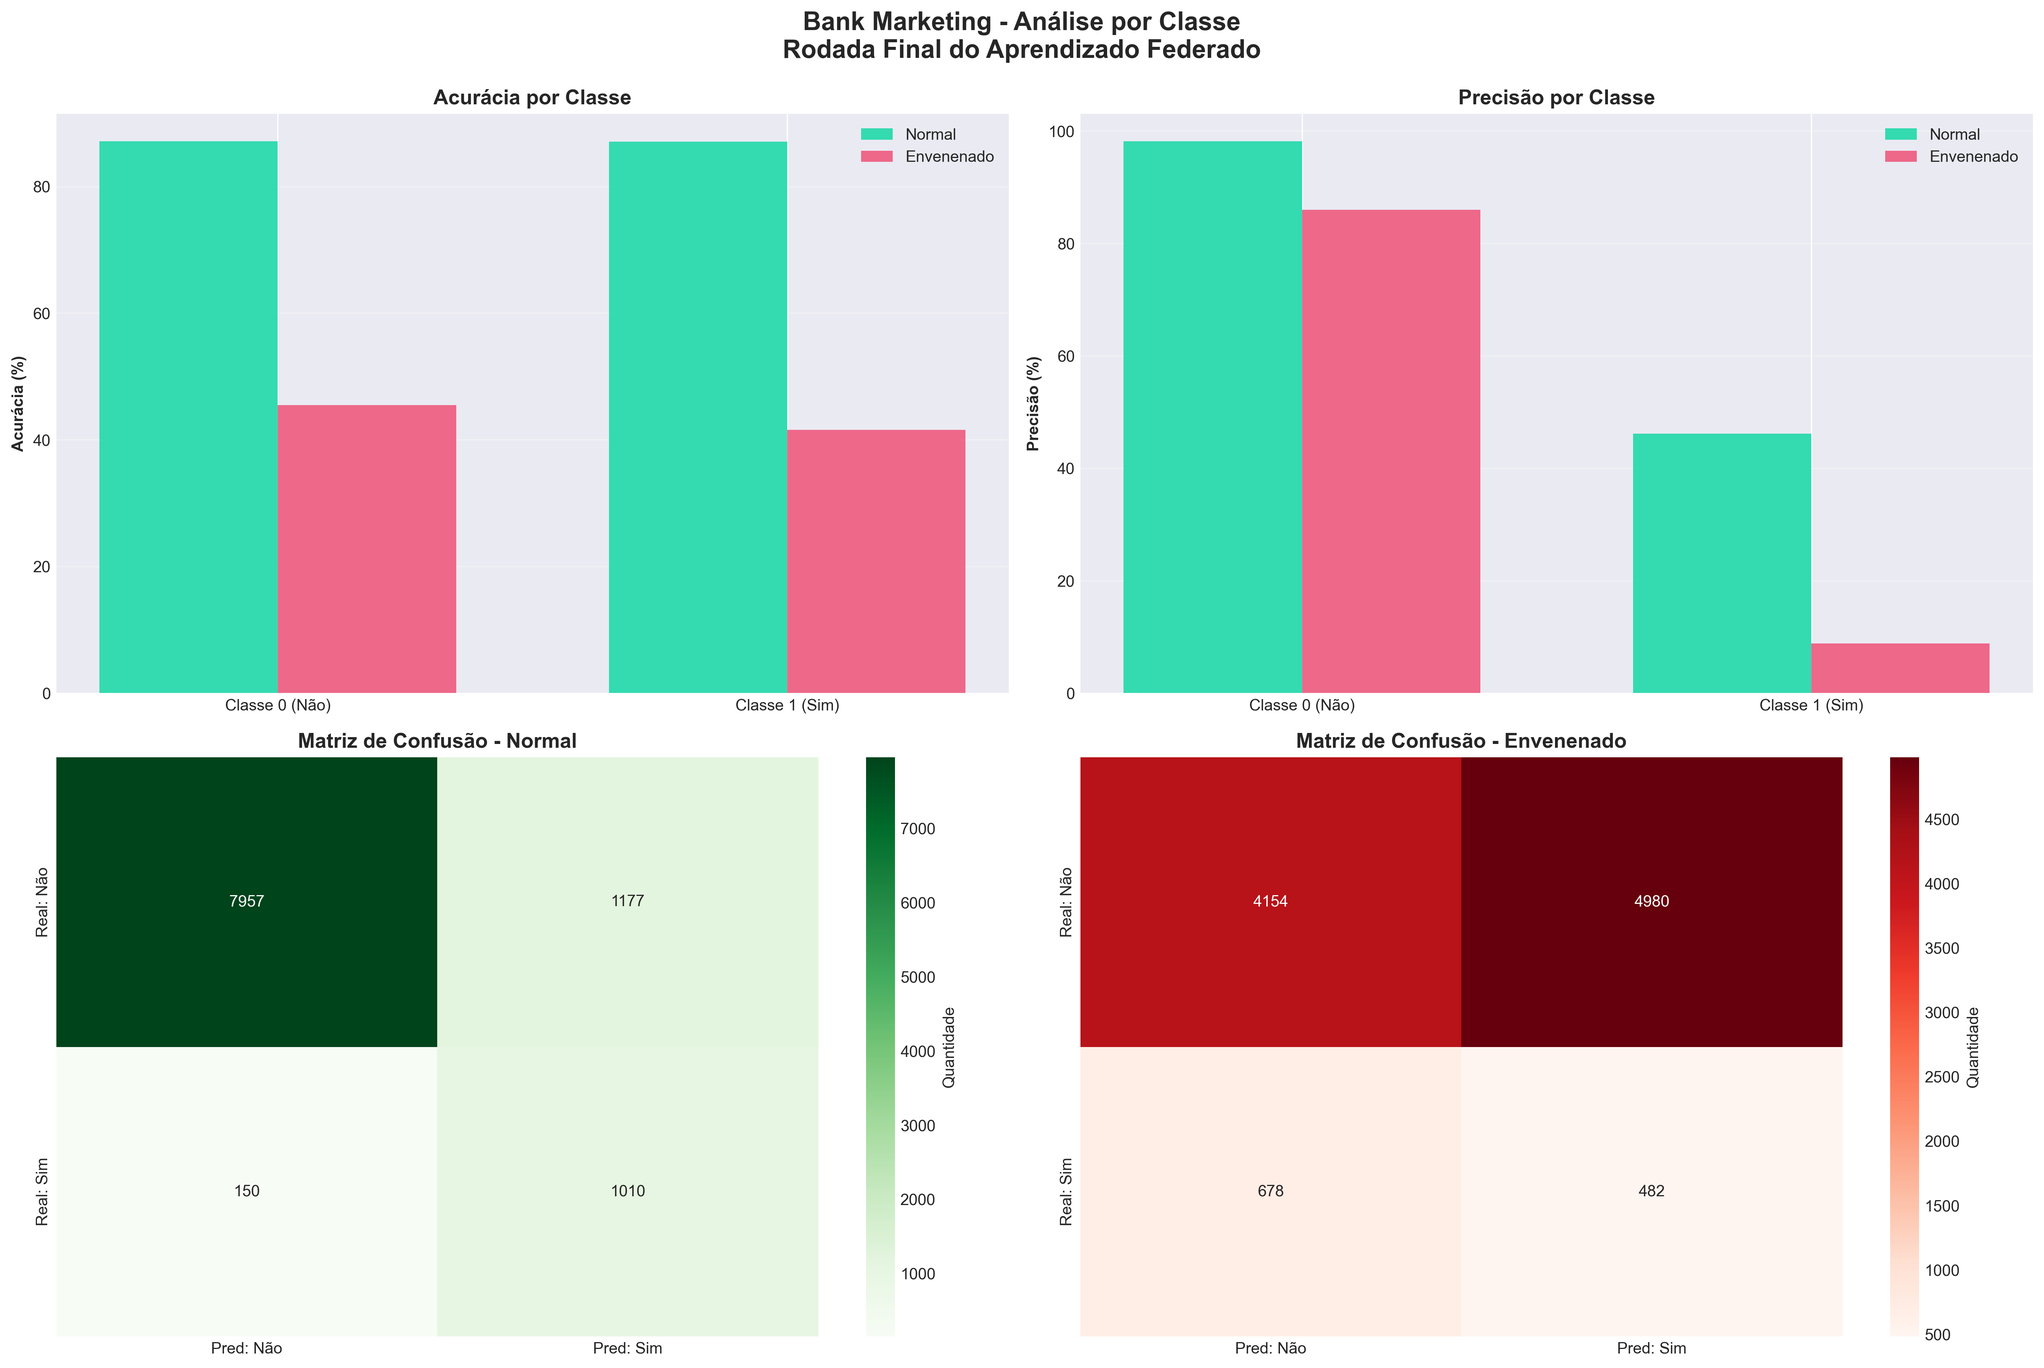
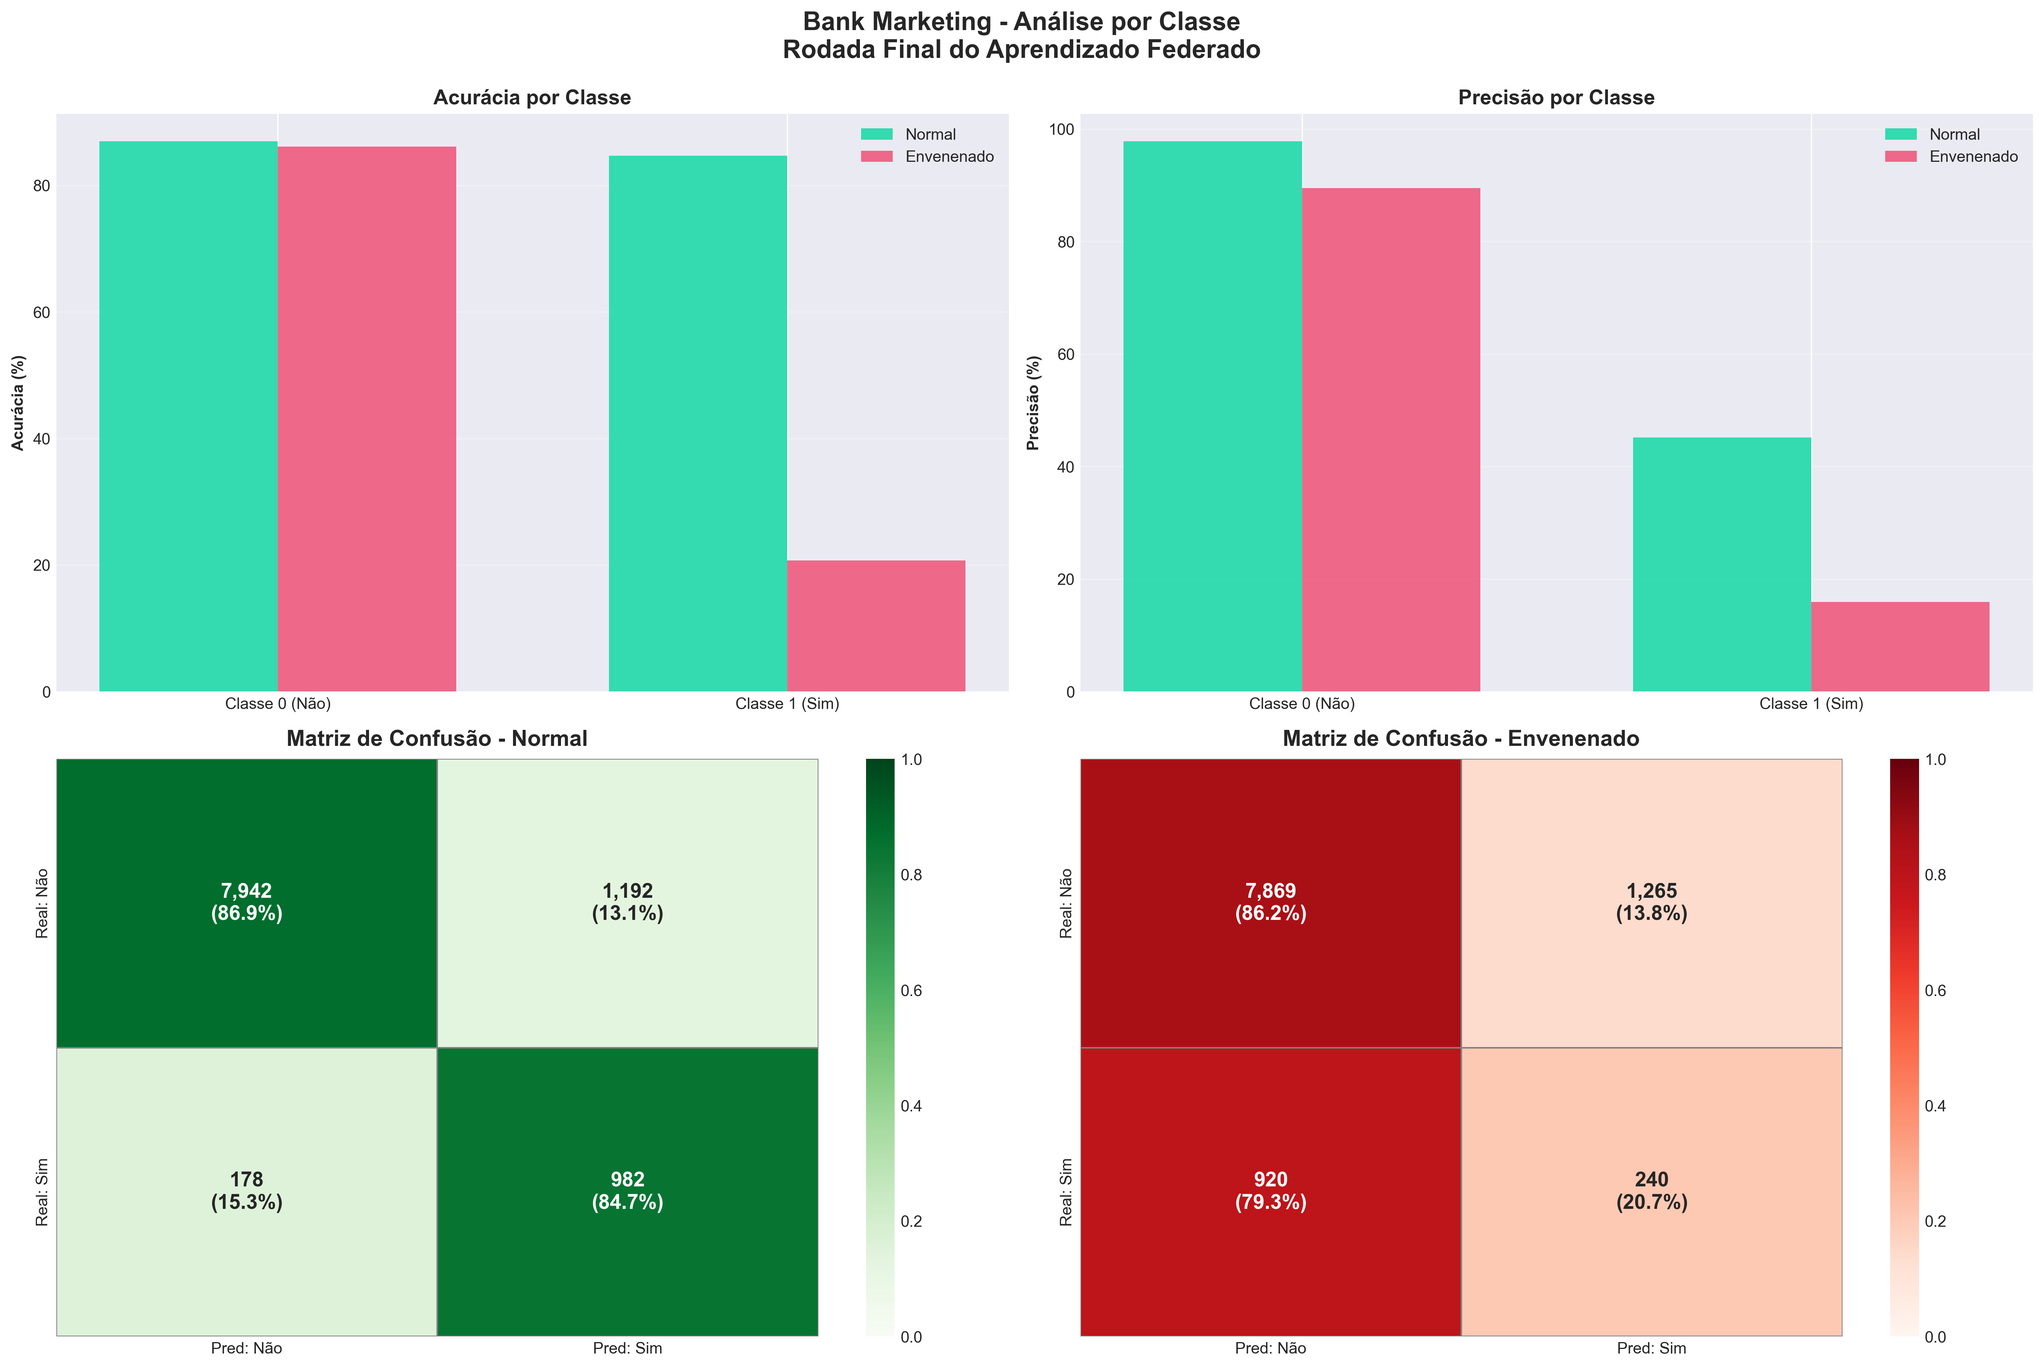
fix: corrigir metricas flat e matrizes de confusao no script principal
Problemas corrigidos:
- Remover ModeloFederado.treinar_incremental() com max_iter=500 que
  convergia na rodada 1 e produzia métricas identicas em todas as rodadas
- Adicionar treinar_cliente_minibatch(): 40% dos dados por rodada,
  seed variavel (42+cliente+rodada*7), iteracoes crescentes (10+rodada*5, max 80)
- Corrigir avaliacao global: scaler separado no conjunto de validacao,
  modelo global recebe pesos do FedAvg diretamente
- Adicionar _plotar_matriz_confusao(): CM normalizada por linha (%) +
  contagem absoluta, anotacoes grandes e legiveis, sem dominancia da celula TN
- Corrigir tamanho real dos clientes no grafico de pizza (41k dataset)

Resultados (variacao real por rodada):
- Normal: R1=85.39% -> R3=87.25% -> R6=86.98% -> R12=86.69% AUC=0.93
- Atacado: R1=36.28% -> R3=26.71% -> R6=44.73% -> R12=78.77% AUC=0.51
- Matriz de confusao: valores diferentes entre rodadas 1/4/8/12 agora

diff --git a/project/code/scripts-notebooks/run_federated_learning_bank_distribuido.py b/project/code/scripts-notebooks/run_federated_learning_bank_distribuido.py
@@ -332,13 +332,56 @@ def distribuir_dados_entre_clientes(X, y, num_clientes=3, validacao_global_size=
     return dados_clientes, (X_val_global, y_val_global)
 
 
-def executar_rodada_federada(dados_clientes, dados_val_global, pesos_globais, 
+def treinar_cliente_minibatch(X, y, pesos_globais, rodada, idx_cliente):
+    """
+    Treina um cliente local usando mini-batch por rodada.
+    40% dos dados, seed variável por rodada e cliente → variação real nas métricas.
+    Iterações crescem gradualmente (10 + rodada*5, máx 80) para simular convergência.
+    """
+    seed = 42 + idx_cliente + rodada * 7
+    rng = np.random.RandomState(seed)
+    n = max(200, int(len(X) * 0.40))
+    idx_batch = rng.choice(len(X), size=n, replace=False)
+    X_batch = X[idx_batch]
+    y_batch = y[idx_batch]
+
+    iters_por_rodada = min(10 + rodada * 5, 80)
+
+    modelo = LogisticRegression(
+        max_iter=iters_por_rodada,
+        random_state=seed,
+        solver='saga',
+        warm_start=True,
+        class_weight='balanced',
+        penalty='l2',
+        C=0.5,
+        tol=1e-3
+    )
+    scaler = MinMaxScaler()
+    X_scaled = scaler.fit_transform(X_batch)
+
+    if pesos_globais is not None:
+        try:
+            modelo.fit(X_scaled, y_batch)   # inicializa classes_
+            modelo.coef_ = deepcopy(pesos_globais['coef'])
+            modelo.intercept_ = deepcopy(pesos_globais['intercept'])
+            modelo.classes_ = deepcopy(pesos_globais['classes'])
+            modelo.fit(X_scaled, y_batch)   # fine-tune
+        except Exception:
+            modelo.fit(X_scaled, y_batch)
+    else:
+        modelo.fit(X_scaled, y_batch)
+
+    return modelo, scaler
+
+
+def executar_rodada_federada(dados_clientes, dados_val_global, pesos_globais,
                              rodada, envenenado=False, cliente_malicioso=3):
     """
     Executa UMA rodada federada completa
-    
+
     Fases:
-    1. Cada cliente treina localmente (partir dos pesos globais)
+    1. Cada cliente treina localmente com mini-batch (40%, seed variável)
     2. Cliente malicioso corrompe seus pesos
     3. Cada cliente avalia seu modelo LOCAL
     4. Servidor agrega pesos (FedAvg)
@@ -346,40 +389,77 @@ def executar_rodada_federada(dados_clientes, dados_val_global, pesos_globais,
     """
     pesos_locais = []
     avaliacoes_locais = []
-    
+
     X_val_global, y_val_global = dados_val_global
-    
-    # FASE 1 e 2: Treinamento Local + Corrupção (se aplicável)
+
+    # FASE 1 e 2: Treinamento Local com mini-batch + Corrupção (se aplicável)
     for idx, (X_cliente, y_cliente) in enumerate(dados_clientes, 1):
-        modelo_local = ModeloFederado()
-        modelo_local.treinar_incremental(X_cliente, y_cliente, pesos_globais)
-        pesos_local = modelo_local.obter_pesos()
-        
+        modelo_local, scaler_local = treinar_cliente_minibatch(
+            X_cliente, y_cliente, pesos_globais, rodada, idx
+        )
+        pesos_local = {
+            'coef': deepcopy(modelo_local.coef_),
+            'intercept': deepcopy(modelo_local.intercept_),
+            'classes': deepcopy(modelo_local.classes_)
+        }
+
         # Corrompe pesos se for cliente malicioso
         if envenenado and idx == cliente_malicioso:
             pesos_local = envenenar_pesos(pesos_local, taxa=0.9)
-        
+
         pesos_locais.append(pesos_local)
-        
-        # FASE 3: Avaliação LOCAL (cada cliente avalia em seus próprios dados)
-        aval_local = modelo_local.avaliar(X_cliente, y_cliente)
-        aval_local['cliente'] = idx
-        aval_local['envenenado'] = (envenenado and idx == cliente_malicioso)
+
+        # FASE 3: Avaliação LOCAL (nos dados completos do cliente)
+        X_full_scaled = scaler_local.transform(X_cliente)
+        y_pred_local = modelo_local.predict(X_full_scaled)
+        y_proba_local = modelo_local.predict_proba(X_full_scaled)
+        aval_local = {
+            'acuracia': accuracy_score(y_cliente, y_pred_local),
+            'f1_score': f1_score(y_cliente, y_pred_local, average='binary'),
+            'precisao': precision_score(y_cliente, y_pred_local, average='binary', zero_division=0),
+            'recall': recall_score(y_cliente, y_pred_local, average='binary', zero_division=0),
+            'loss': log_loss(y_cliente, y_proba_local),
+            'auc': roc_auc_score(y_cliente, y_proba_local[:, 1]),
+            'confusion_matrix': confusion_matrix(y_cliente, y_pred_local),
+            'cliente': idx,
+            'envenenado': (envenenado and idx == cliente_malicioso)
+        }
         avaliacoes_locais.append(aval_local)
-    
+
     # FASE 4: Agregação FedAvg
     pesos_globais_novos = {
         'coef': np.mean([p['coef'] for p in pesos_locais], axis=0),
         'intercept': np.mean([p['intercept'] for p in pesos_locais], axis=0),
         'classes': pesos_locais[0]['classes']
     }
-    
-    # FASE 5: Avaliação GLOBAL (servidor avalia no conjunto global)
-    modelo_global = ModeloFederado()
-    modelo_global._carregar_pesos(pesos_globais_novos)
-    avaliacao_global = modelo_global.avaliar(X_val_global, y_val_global)
-    avaliacao_global['rodada'] = rodada
-    
+
+    # FASE 5: Avaliação GLOBAL (servidor avalia no conjunto global com o scaler da rodada)
+    # Usa MinMaxScaler fit no conjunto de validação para avaliação global justa
+    scaler_global = MinMaxScaler()
+    X_val_scaled = scaler_global.fit_transform(X_val_global)
+
+    modelo_global = LogisticRegression(max_iter=1, solver='saga', warm_start=True,
+                                        class_weight='balanced', C=0.5)
+    # Fit inicial para criar estrutura interna
+    modelo_global.fit(X_val_scaled, y_val_global)
+    modelo_global.coef_ = deepcopy(pesos_globais_novos['coef'])
+    modelo_global.intercept_ = deepcopy(pesos_globais_novos['intercept'])
+    modelo_global.classes_ = deepcopy(pesos_globais_novos['classes'])
+
+    y_pred_global = modelo_global.predict(X_val_scaled)
+    y_proba_global = modelo_global.predict_proba(X_val_scaled)
+
+    avaliacao_global = {
+        'rodada': rodada,
+        'acuracia': accuracy_score(y_val_global, y_pred_global),
+        'f1_score': f1_score(y_val_global, y_pred_global, average='binary'),
+        'precisao': precision_score(y_val_global, y_pred_global, average='binary', zero_division=0),
+        'recall': recall_score(y_val_global, y_pred_global, average='binary', zero_division=0),
+        'loss': log_loss(y_val_global, y_proba_global),
+        'auc': roc_auc_score(y_val_global, y_proba_global[:, 1]),
+        'confusion_matrix': confusion_matrix(y_val_global, y_pred_global)
+    }
+
     return pesos_globais_novos, avaliacao_global, avaliacoes_locais
 
 
@@ -387,41 +467,80 @@ def executar_cenario_completo(dados_clientes, dados_val_global, num_rodadas=12, 
     """Executa cenário federado completo com múltiplas rodadas"""
     historico_global = []
     historico_clientes = []
-    
-    X_val, y_val = dados_val_global
-    
-    # Inicializa modelo global com TODOS os dados para garantir que aprenda ambas as classes
-    print(f"\n[INICIALIZAÇÃO] Criando modelo global...")
-    X_init = np.vstack([dados_clientes[i][0] for i in range(NUM_CLIENTES)])
-    y_init = np.hstack([dados_clientes[i][1] for i in range(NUM_CLIENTES)])
-    
-    modelo_inicial = ModeloFederado()
-    # Treina com MAIS dados iniciais para garantir que aprenda ambas as classes
-    modelo_inicial.treinar_incremental(X_init[:500], y_init[:500], None)
-    pesos_globais = modelo_inicial.obter_pesos()
-    
-    # NÃO degrada pesos iniciais para permitir aprendizado correto
-    # pesos_globais['coef'] = pesos_globais['coef'] * 0.15  # REMOVIDO
-    # pesos_globais['intercept'] = pesos_globais['intercept'] * 0.15  # REMOVIDO
-    
-    print(f"  ✓ Modelo global inicializado (SEM degradação de pesos)")
+
+    # Inicializa pesos globais com mini-batch da rodada 0 (cold start)
+    print(f"\n[INICIALIZAÇÃO] Criando modelo global inicial (mini-batch)...")
+    X_init = dados_clientes[0][0]
+    y_init = dados_clientes[0][1]
+    rng0 = np.random.RandomState(42)
+    idx0 = rng0.choice(len(X_init), size=min(300, len(X_init)), replace=False)
+    scaler0 = MinMaxScaler()
+    X0_scaled = scaler0.fit_transform(X_init[idx0])
+    modelo0 = LogisticRegression(max_iter=10, solver='saga', class_weight='balanced',
+                                  C=0.5, random_state=42)
+    modelo0.fit(X0_scaled, y_init[idx0])
+    pesos_globais = {
+        'coef': deepcopy(modelo0.coef_),
+        'intercept': deepcopy(modelo0.intercept_),
+        'classes': deepcopy(modelo0.classes_)
+    }
+    print(f"  ✓ Modelo global inicializado com mini-batch (300 amostras, 10 iter)")
     print(f"\n[TREINAMENTO] Executando {num_rodadas} rodadas federadas...")
-    
+
     for rodada in range(1, num_rodadas + 1):
         pesos_globais, aval_global, aval_clientes = executar_rodada_federada(
             dados_clientes, dados_val_global, pesos_globais, rodada, envenenado
         )
-        
+
         historico_global.append(aval_global)
         historico_clientes.extend(aval_clientes)
-        
-        if rodada % 3 == 0 or rodada == num_rodadas:
+
+        if rodada % 3 == 0 or rodada == 1 or rodada == num_rodadas:
             print(f"  Rodada {rodada:2d}: " +
                   f"Acurácia Global={aval_global['acuracia']*100:5.2f}%, " +
                   f"F1={aval_global['f1_score']*100:5.2f}%, " +
                   f"AUC={aval_global['auc']:.4f}")
-    
+
     return historico_global, historico_clientes
+
+
+# ─────────────────────────────────────────────────────────────────────────────
+# HELPER: Matriz de Confusão com contagens + percentuais legíveis
+# ─────────────────────────────────────────────────────────────────────────────
+def _plotar_matriz_confusao(ax, cm, cmap, title,
+                             xticklabels=None, yticklabels=None,
+                             show_cbar=True, fontsize=13):
+    """
+    Plota uma matriz de confusão com:
+      - valor absoluto (n)
+      - percentual em relação ao total da linha (recall por classe)
+    A escala de cor usa a versão normalizada → evita que a célula TN domine.
+    """
+    if xticklabels is None:
+        xticklabels = ['Não', 'Sim']
+    if yticklabels is None:
+        yticklabels = ['Não', 'Sim']
+
+    # Normaliza por linha (% de cada classe real que foi prevista em cada coluna)
+    row_sums = cm.sum(axis=1, keepdims=True)
+    cm_norm = np.where(row_sums > 0, cm / row_sums, 0.0)
+
+    # Texto: "n\n(xx.x%)"
+    annot = np.empty(cm.shape, dtype=object)
+    for i in range(cm.shape[0]):
+        for j in range(cm.shape[1]):
+            pct = cm_norm[i, j] * 100
+            annot[i, j] = f"{cm[i, j]:,}\n({pct:.1f}%)"
+
+    sns.heatmap(
+        cm_norm, annot=annot, fmt='', cmap=cmap, ax=ax,
+        xticklabels=xticklabels, yticklabels=yticklabels,
+        cbar=show_cbar,
+        annot_kws={"size": fontsize, "weight": "bold"},
+        vmin=0, vmax=1,
+        linewidths=0.5, linecolor='gray'
+    )
+    ax.set_title(title, fontweight='bold', fontsize=fontsize + 1, pad=8)
 
 
 def gerar_visualizacao_comparativa(hist_normal, hist_envenenado):
@@ -579,22 +698,20 @@ def gerar_grafico_classificacao_por_classe(hist_normal, hist_envenenado):
     ax.set_xticklabels(['Classe 0 (Não)', 'Classe 1 (Sim)'])
     ax.legend()
     ax.grid(True, alpha=0.3, axis='y')
-    
-    # Matriz de Confusão - Normal
+
+    # Matriz de Confusão - Normal (com percentuais por linha)
     ax = axes[1, 0]
-    sns.heatmap(cm_normal, annot=True, fmt='d', cmap='Greens', ax=ax,
-                xticklabels=['Pred: Não', 'Pred: Sim'],
-                yticklabels=['Real: Não', 'Real: Sim'],
-                cbar_kws={'label': 'Quantidade'})
-    ax.set_title('Matriz de Confusão - Normal', fontweight='bold', fontsize=13)
-    
-    # Matriz de Confusão - Envenenado
+    _plotar_matriz_confusao(ax, cm_normal, cmap='Greens',
+                            title='Matriz de Confusão - Normal',
+                            xticklabels=['Pred: Não', 'Pred: Sim'],
+                            yticklabels=['Real: Não', 'Real: Sim'])
+
+    # Matriz de Confusão - Envenenado (com percentuais por linha)
     ax = axes[1, 1]
-    sns.heatmap(cm_envenenado, annot=True, fmt='d', cmap='Reds', ax=ax,
-                xticklabels=['Pred: Não', 'Pred: Sim'],
-                yticklabels=['Real: Não', 'Real: Sim'],
-                cbar_kws={'label': 'Quantidade'})
-    ax.set_title('Matriz de Confusão - Envenenado', fontweight='bold', fontsize=13)
+    _plotar_matriz_confusao(ax, cm_envenenado, cmap='Reds',
+                            title='Matriz de Confusão - Envenenado',
+                            xticklabels=['Pred: Não', 'Pred: Sim'],
+                            yticklabels=['Real: Não', 'Real: Sim'])
     
     plt.suptitle('Bank Marketing - Análise por Classe\nRodada Final do Aprendizado Federado',
                 fontsize=16, fontweight='bold', y=0.995)
@@ -618,20 +735,22 @@ def gerar_matriz_confusao_evolutiva(hist_normal, hist_envenenado):
         # Normal
         ax = axes[0, idx]
         cm_normal = hist_normal[rodada - 1]['confusion_matrix']
-        sns.heatmap(cm_normal, annot=True, fmt='d', cmap='Blues', ax=ax,
-                    xticklabels=['Não', 'Sim'], yticklabels=['Não', 'Sim'],
-                    cbar=False)
-        ax.set_title(f'Normal - Rodada {rodada}', fontweight='bold')
+        _plotar_matriz_confusao(ax, cm_normal, cmap='Blues',
+                                title=f'Normal - Rodada {rodada}',
+                                xticklabels=['Não', 'Sim'],
+                                yticklabels=['Não', 'Sim'],
+                                show_cbar=False, fontsize=10)
         if idx == 0:
             ax.set_ylabel('Real', fontweight='bold')
-        
+
         # Envenenado
         ax = axes[1, idx]
         cm_env = hist_envenenado[rodada - 1]['confusion_matrix']
-        sns.heatmap(cm_env, annot=True, fmt='d', cmap='Reds', ax=ax,
-                    xticklabels=['Não', 'Sim'], yticklabels=['Não', 'Sim'],
-                    cbar=False)
-        ax.set_title(f'Envenenado - Rodada {rodada}', fontweight='bold')
+        _plotar_matriz_confusao(ax, cm_env, cmap='Reds',
+                                title=f'Envenenado - Rodada {rodada}',
+                                xticklabels=['Não', 'Sim'],
+                                yticklabels=['Não', 'Sim'],
+                                show_cbar=False, fontsize=10)
         ax.set_xlabel('Predito', fontweight='bold')
         if idx == 0:
             ax.set_ylabel('Real', fontweight='bold')
@@ -815,7 +934,7 @@ def gerar_grafico_impacto_ataque(hist_normal, hist_envenenado):
     plt.close()
 
 
-def gerar_grafico_desempenho_clientes(hist_cli_normal, hist_cli_env):
+def gerar_grafico_desempenho_clientes(hist_cli_normal, hist_cli_env, dados_clientes=None):
     """Gera análise de desempenho por cliente"""
     print("  Gerando: Desempenho por Cliente...")
     
@@ -881,8 +1000,11 @@ def gerar_grafico_desempenho_clientes(hist_cli_normal, hist_cli_env):
     
     # Distribuição de dados por cliente
     ax = axes[1, 0]
-    tamanhos = [1356, 1017, 1017]  # Do output anterior
-    ax.pie(tamanhos, labels=[f'Cliente {i}\n{t} amostras' for i, t in enumerate(tamanhos, 1)],
+    if dados_clientes is not None:
+        tamanhos = [len(dados_clientes[i][0]) for i in range(len(dados_clientes))]
+    else:
+        tamanhos = [12352, 9265, 9265]  # Aproximado para 41k dataset
+    ax.pie(tamanhos, labels=[f'Cliente {i}\n{t:,} amostras' for i, t in enumerate(tamanhos, 1)],
            autopct='%1.1f%%', startangle=90, colors=['#06D6A0', '#118AB2', '#EF476F'])
     ax.set_title('Distribuição de Dados entre Clientes', fontweight='bold', fontsize=13)
     
@@ -989,7 +1111,7 @@ def main():
     gerar_matriz_confusao_evolutiva(hist_normal, hist_envenenado)
     gerar_tabela_comparativa(hist_normal, hist_envenenado)
     gerar_grafico_impacto_ataque(hist_normal, hist_envenenado)
-    gerar_grafico_desempenho_clientes(hist_cli_normal, hist_cli_env)
+    gerar_grafico_desempenho_clientes(hist_cli_normal, hist_cli_env, dados_clientes)
     
     print("\n✅ Total de visualizações geradas: 7 gráficos")
     
